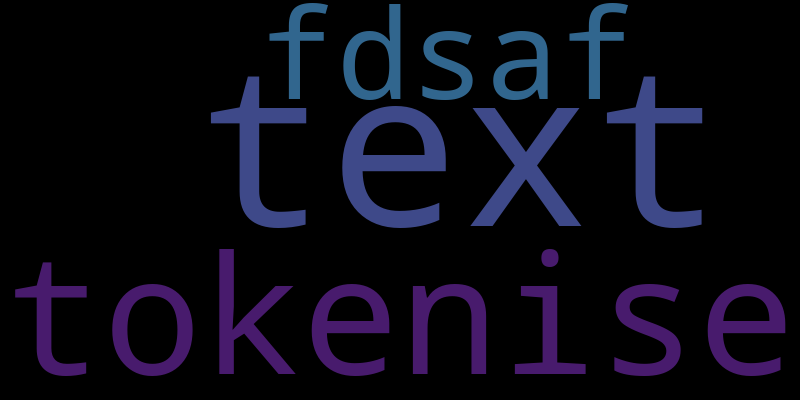
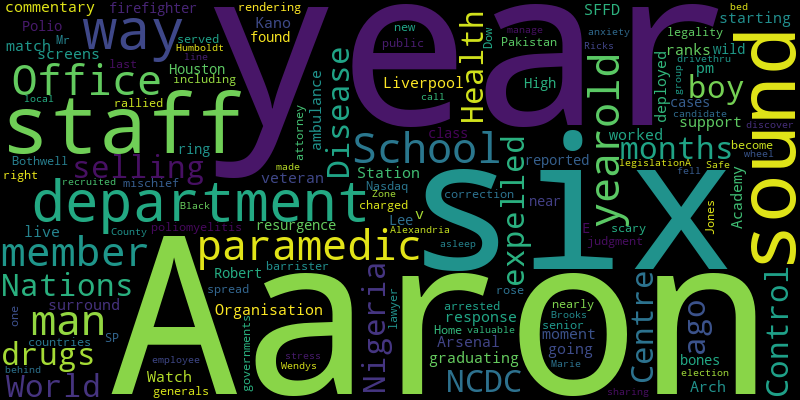
final code

diff --git a/easynlp_frontend/src/components/EasyNLP.jsx b/easynlp_frontend/src/components/EasyNLP.jsx
@@ -18,6 +18,19 @@ import ListItemText from "@mui/material/ListItemText";
 import { Button } from "@mui/material";
 import TextField from "@mui/material/TextField";
 import axios from "axios";
+import CloudUploadIcon from '@mui/icons-material/CloudUpload';
+
+const VisuallyHiddenInput = styled('input')({
+  clip: 'rect(0 0 0 0)',
+  clipPath: 'inset(50%)',
+  height: 1,
+  overflow: 'hidden',
+  position: 'absolute',
+  bottom: 0,
+  left: 0,
+  whiteSpace: 'nowrap',
+  width: 1,
+});
 
 const drawerWidth = 240;
 
@@ -78,6 +91,21 @@ export default function PersistentDrawerLeft() {
     { text: "Stopword Removal", key: "remove_stopwords" },
     { text: "Lowercasing", key: "lowercasing" },
     { text: "Contractions", key: "handle_contractions" },
+    { text: "Stemming", key: "stem" },
+    { text: "Lemmitization", key: "lemmatization" },
+    { text: "Remove Text Outliers", key: "remove_text_outliers" },
+    { text: "Stemming", key: "stem" },
+  ];
+  const group2 = [
+    { text: "Counting Word Frequencies", key: "word_freq_analysis" },
+    { text: "Visualizing Word Frequencies", key: "word_cloud" },
+  ];
+  const group3 = [
+    { text: "POS Tagging", key: "pos_tagging" },
+    { text: "Sentiment Analysis", key: "sentiment_analysis" },
+  ];
+  const group4 = [
+    { text: "Named Entity Recognition", key: "ner" },
   ];
   const [selectedText, setSelectedText] = React.useState(group1[0]);
 
@@ -114,7 +142,9 @@ export default function PersistentDrawerLeft() {
       })
       .then(function (response) {
         console.log(response);
-        setOutput(response.data);
+        selectedText.key === "word_cloud"
+          ? setImage(response.data)
+          : setOutput(JSON.stringify(response.data));
       })
       .catch(function (error) {
         console.log(error);
@@ -197,6 +227,8 @@ export default function PersistentDrawerLeft() {
           </IconButton>
         </DrawerHeader>
         <Divider />
+        <Typography variant="h6">Text Preprocessing</Typography>
+        <Divider />
         <List>
           {group1.map((item, index) => (
             <ListItem key={item.key} disablePadding>
@@ -214,23 +246,61 @@ export default function PersistentDrawerLeft() {
           ))}
         </List>
         <Divider />
+        <Typography variant="h6">Word Frequency</Typography>
+        <Divider />
         <List>
-          {["Counting Word Frequencies", "Visualizing Word Frequencies"].map(
-            (text, index) => (
-              <ListItem key={text} disablePadding>
-                <ListItemButton
-                  onClick={() => setSelectedText(text)}
-                  selected={text === selectedText}
-                >
-                  {text === selectedText ? (
-                    <ListItemText primary={text} />
-                  ) : (
-                    <ListItemText secondary={text} />
-                  )}
-                </ListItemButton>
-              </ListItem>
-            )
-          )}
+          {group2.map((item, index) => (
+            <ListItem key={item.key} disablePadding>
+              <ListItemButton
+                onClick={() => setSelectedText(item)}
+                selected={item.text === selectedText.text}
+              >
+                {item.text === selectedText.text ? (
+                  <ListItemText primary={item.text} />
+                ) : (
+                  <ListItemText secondary={item.text} />
+                )}
+              </ListItemButton>
+            </ListItem>
+          ))}
+        </List>
+        <Divider />
+        <Typography variant="h6">Sentiment Analysis</Typography>
+        <Divider />
+        <List>
+          {group3.map((item, index) => (
+            <ListItem key={item.key} disablePadding>
+              <ListItemButton
+                onClick={() => setSelectedText(item)}
+                selected={item.text === selectedText.text}
+              >
+                {item.text === selectedText.text ? (
+                  <ListItemText primary={item.text} />
+                ) : (
+                  <ListItemText secondary={item.text} />
+                )}
+              </ListItemButton>
+            </ListItem>
+          ))}
+        </List>
+        <Divider />
+        <Typography variant="h6">Entity Recognition</Typography>
+        <Divider />
+        <List>
+          {group4.map((item, index) => (
+            <ListItem key={item.key} disablePadding>
+              <ListItemButton
+                onClick={() => setSelectedText(item)}
+                selected={item.text === selectedText.text}
+              >
+                {item.text === selectedText.text ? (
+                  <ListItemText primary={item.text} />
+                ) : (
+                  <ListItemText secondary={item.text} />
+                )}
+              </ListItemButton>
+            </ListItem>
+          ))}
         </List>
       </Drawer>
       <Main open={open}>
@@ -268,20 +338,30 @@ export default function PersistentDrawerLeft() {
                 variant="standard"
                 onChange={(e) => setInput(e.target.value)}
               />
+              <div style={{ display: "flex", marginTop: "10px", justifyContent: "space-between" }}>
               <Button
-                style={{ width: "50%", left: "50%", marginTop: "10px" }}
+                component="label"
+                role={undefined}
+                variant="contained"
+                tabIndex={-1}
+                startIcon={<CloudUploadIcon />}
+              >
+                Upload file
+                <VisuallyHiddenInput type="file" />
+              </Button>
+              <Button
+                style={{ width: "50%" }}
                 variant="contained"
                 size="medium"
                 onClick={() => handleAnalyze()}
               >
                 Analyze
               </Button>
+              </div>
+              
             </div>
             <div style={{ display: "flex", flexDirection: "column" }}>
-              <Typography
-                style={{ right: "40%", position: "relative" }}
-              ></Typography>
-              {selectedText === "Visualizing Word Frequencies" && image ? (
+              {selectedText.key === "word_cloud" && image ? (
                 <img
                   width={500}
                   height={300}
